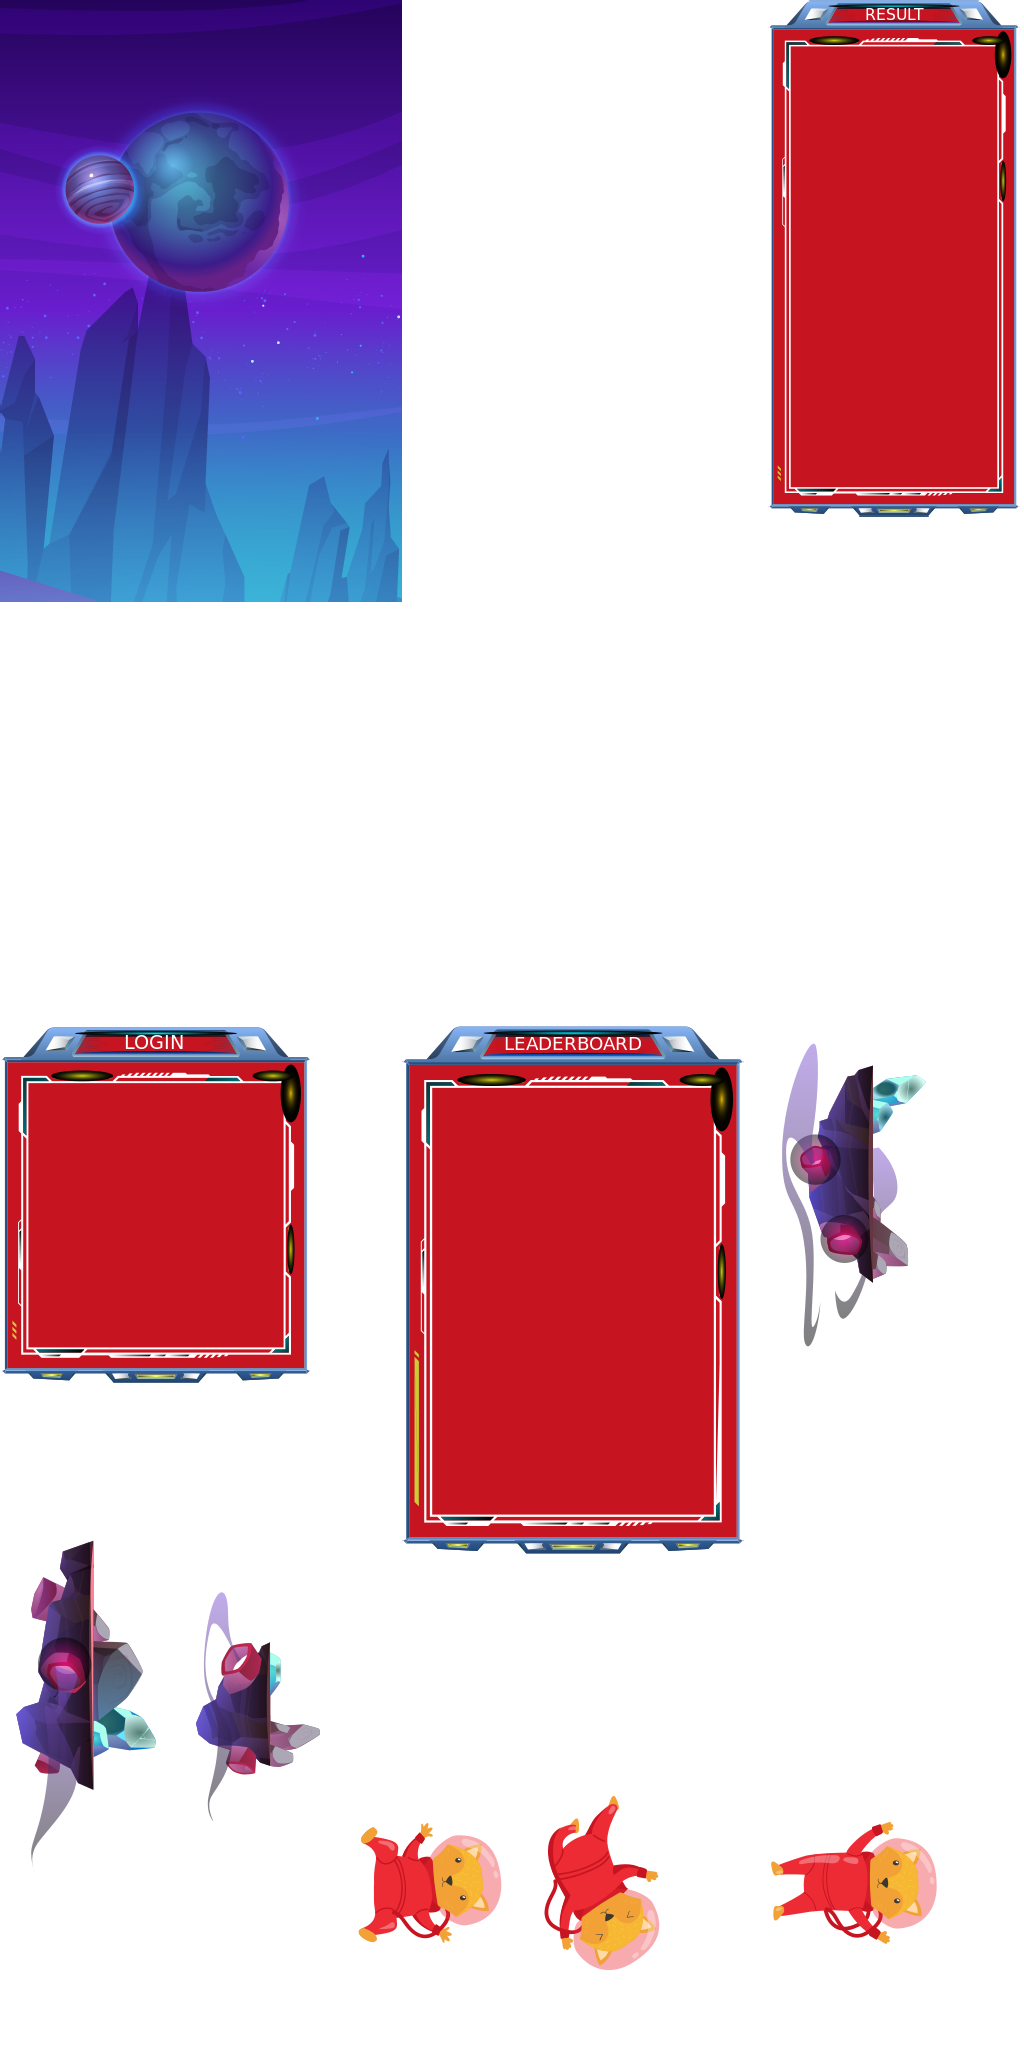
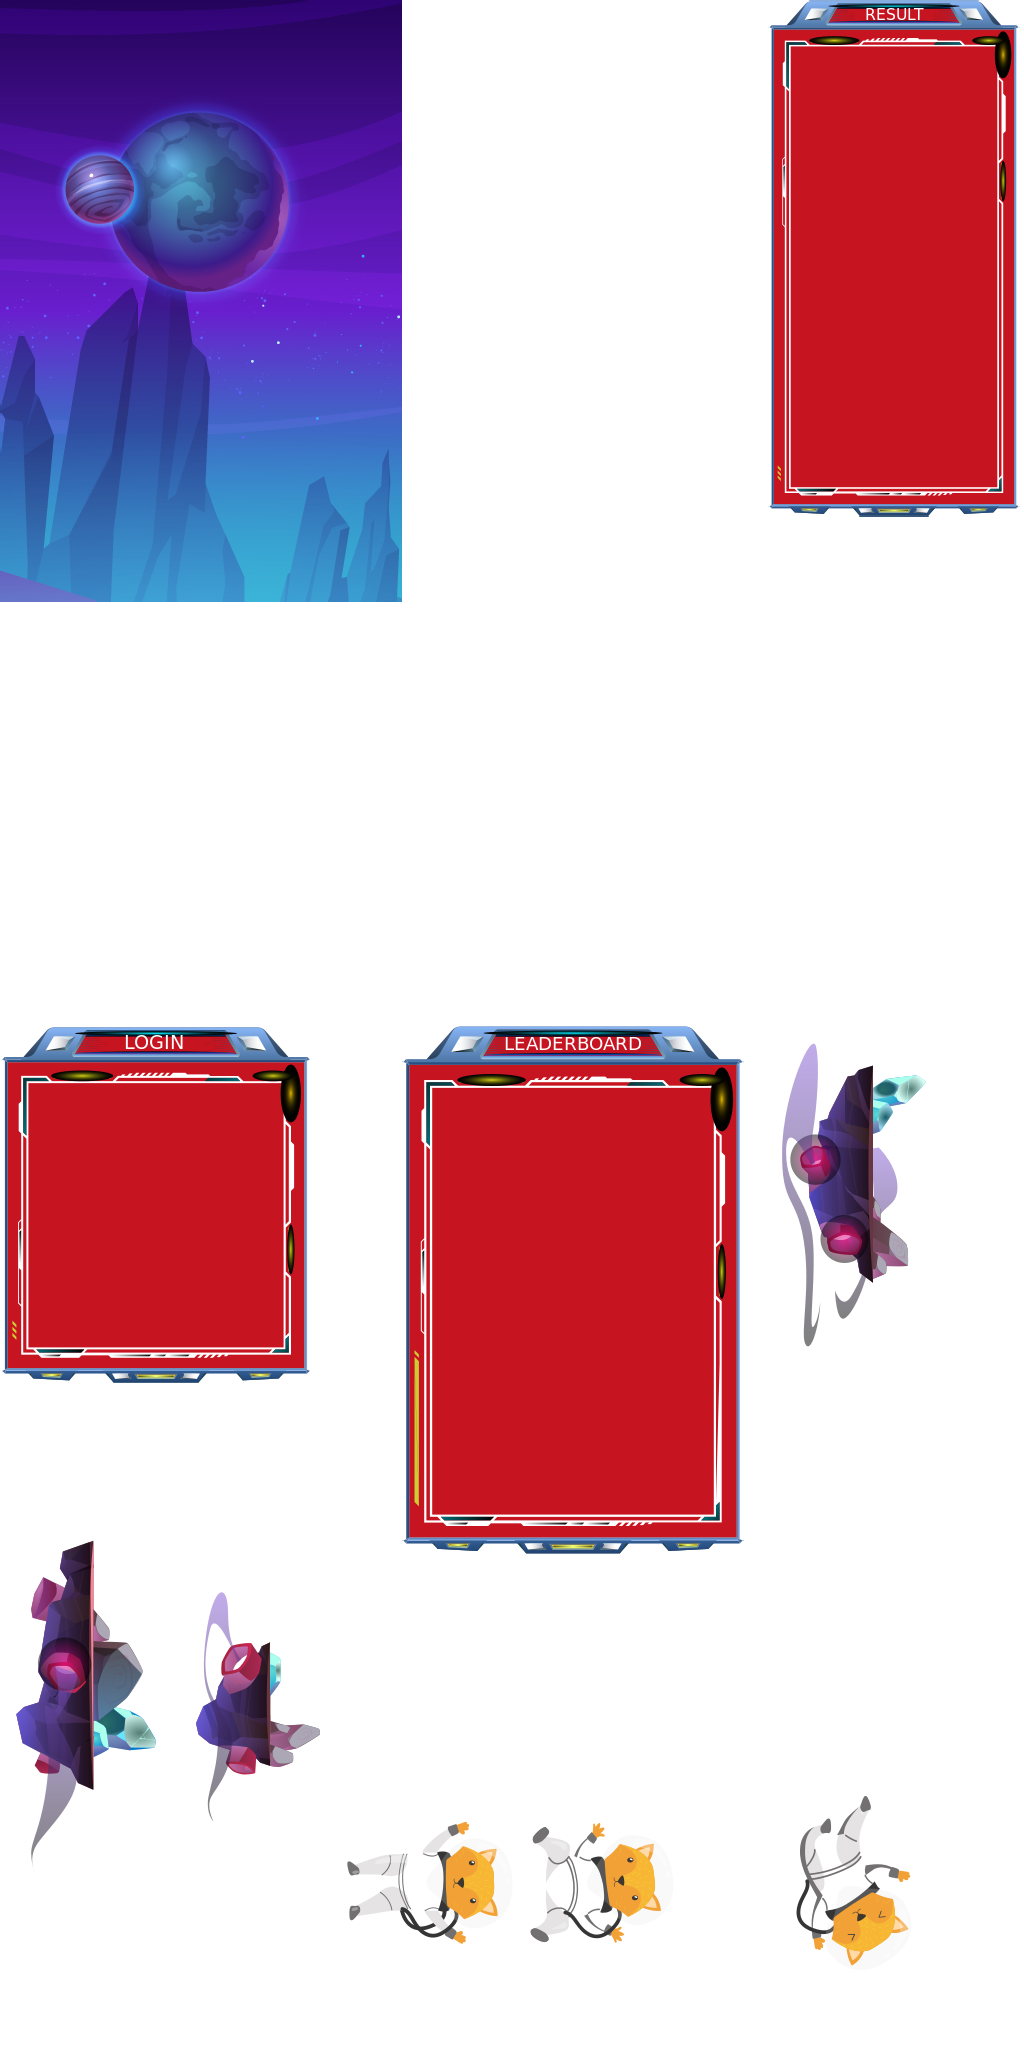
Update Tgl 25 Jan 22 - Product & Game

Changed region(s): [[0.75, 0.875, 0.9375, 0.9688], [0.3438, 0.875, 0.5, 0.9688], [0.5312, 0.875, 0.6562, 0.9688]]

diff --git a/css/main_styles.css b/css/main_styles.css
@@ -3095,6 +3095,10 @@ label {
 	}
 }
 
+iframe html body {
+	background-color: #FFF!important;
+}
+
 @media (max-width : 578px) {
 	.promo-wrapper{
 		margin:90px 0 50px 0;

diff --git a/GameHSJ/style.css b/GameHSJ/style.css
@@ -3,7 +3,7 @@ html, body {
 	margin: 0;
 	overflow: hidden;
 	
-	background: #FFFFFF;
+	/* background: #000000; */
 	color: white;
 }
 

diff --git a/GameHSJ/api/config.php b/GameHSJ/api/config.php
@@ -2,25 +2,34 @@
 
 // Change this to your connection info.
 $DATABASE_HOST = 'localhost';
-$DATABASE_USER = 'root';
-$DATABASE_PASS = '';
-$DATABASE_NAME = 'dbgame_hci';
+$DATABASE_USER = 'game';
+$DATABASE_PASS = 'Hc!@games';
+$DATABASE_NAME = 'hci_game';
+
+// Change this to your connection info.
+// $DATABASE_HOST = 'localhost';
+// $DATABASE_USER = 'root';
+// $DATABASE_PASS = '';
+// $DATABASE_NAME = 'dbgame_hci';
 
 // Api config
[1 lines of base64/hex data omitted]
 
 // Cross-Origin Resource Sharing Header (disabled if you want to skip this)
 $allowedOrigins = [
-    "https://static-sg.theflavare.com/",
-    "https://theflavare.com/"
+    "https://pestahomecredit.com",
+    "https://www.pestahomecredit.com",
+    "https://pesta.homecredit.co.id",
+    "https://www.pestahomecredit.com/sandbox"
 ];
 
+
 // if (in_array($_SERVER["HTTP_ORIGIN"], $allowedOrigins)) {
-    header("Access-Control-Allow-Origin: " . $_SERVER["HTTP_ORIGIN"]);
+    // header("Access-Control-Allow-Origin: " . $_SERVER["HTTP_ORIGIN"]);
 // }
 
-header('Access-Control-Allow-Methods: GET, POST');
-header('Access-Control-Allow-Headers: X-Requested-With, Content-Type, Accept');
+// header('Access-Control-Allow-Methods: GET, POST');
+// header('Access-Control-Allow-Headers: X-Requested-With, Content-Type, Accept');
 
 // Try and connect using the info above.
 $conn = mysqli_connect($DATABASE_HOST, $DATABASE_USER, $DATABASE_PASS, $DATABASE_NAME);

diff --git a/core/page/head.php b/core/page/head.php
@@ -11,14 +11,13 @@
 <link rel="stylesheet" type="text/css" href="plugins/OwlCarousel2-2.2.1/owl.carousel.css">
 <link rel="stylesheet" type="text/css" href="plugins/OwlCarousel2-2.2.1/owl.theme.default.css">
 <link rel="stylesheet" type="text/css" href="plugins/OwlCarousel2-2.2.1/animate.css">
-<link rel="stylesheet" type="text/css" href="css/main_styles.css">
+<link rel="stylesheet" type="text/css" href="css/main_styles.css?t=<?php echo time();  ?>">
 <link rel="stylesheet" type="text/css" href="css/responsive.css">
 <link rel="stylesheet" type="text/css" href="css/categories_responsive.css">
 <link rel="stylesheet" type="text/css" href="css/product_responsive.css">
 <link rel="stylesheet" type="text/css" href="css/checkout_responsive.css">
 <link rel="stylesheet" type="text/css" href="css/cart_responsive.css">
 <link rel="stylesheet" type="text/css" href="css/swiper-bundle.min.css" />
-<link rel="stylesheet" href="../../GameHSJ/style.css?t=<?php echo date("S") ;?>">
 <!-- Google Tag Manager -->
 <script>(function(w,d,s,l,i){w[l]=w[l]||[];w[l].push({'gtm.start':
 new Date().getTime(),event:'gtm.js'});var f=d.getElementsByTagName(s)[0],

diff --git a/GameHSJ/index1.php b/GameHSJ/index1.php
@@ -5,19 +5,13 @@
 <title>Hurry Space Jam</title>
 <meta name="viewport" content="width=device-width, initial-scale=1.0, maximum-scale=1.0, minimum-scale=1.0, user-scalable=no, viewport-fit=cover">
 
-<meta name="generator" content="">
-	<meta name="author" content="theflavare">
-	<meta name="description" content="Hurry Space Jam Game supported by The Flavare">
+<meta name="generator" content="The Flavare">
+
 	<link rel="manifest" href="appmanifest.json">
 	<link rel="apple-touch-icon" sizes="180x170" href="icons/icon-16.png">
 	<link rel="icon" type="image/png" href="icons/icon-16.png">
 
-<link rel="stylesheet" href="style.css?t=<?php echo time(); ?>">
-<style>
-	body {
-		background-color: #fff;
-	}
-</style>
+<link rel="stylesheet" href="style.css">
 
 </head>
 <body>

diff --git a/index.php b/index.php
@@ -2,6 +2,9 @@
 	error_reporting(0);
 	include "config/config.php";
 
+	$insertPageView = "INSERT INTO visitors (ipaddress, date_visit) VALUES ('$_SERVER[REMOTE_ADDR]', '".date("Y-m-d H:i:s")."')";
+	mysqli_query($koneksi, $insertPageView);
+
 	$cekvisitors = "SELECT * FROM unique_visitors WHERE ipaddress='$_SERVER[REMOTE_ADDR]' AND DATE(date_visit)=CURDATE()";
 	$querycekvisitors = mysqli_query($koneksi, $cekvisitors);
 	$NumberofVisitor = mysqli_num_rows($querycekvisitors);

diff --git a/core/code/jsscript.php b/core/code/jsscript.php
@@ -28,6 +28,10 @@
 <script type="module">
     import Swiper from './js/swiper.js';
 
+    setTimeout(() => {
+        $("iframe").contents().find('head').append('<style type="text/css">body { background-color: #FFF!important; }</style>')
+    }, 2000)
+
     var swiper1 = new Swiper('.swiper', {
         slidesPerView: 1,
         spaceBetween: 10,
